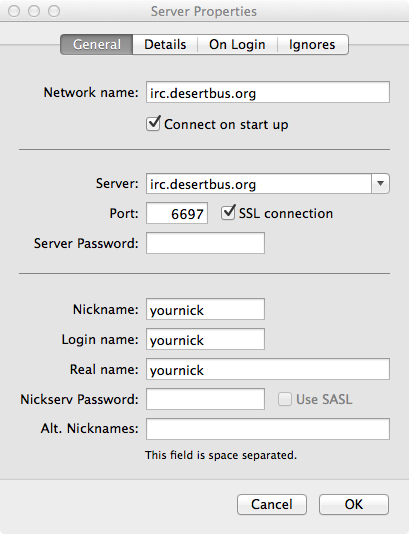
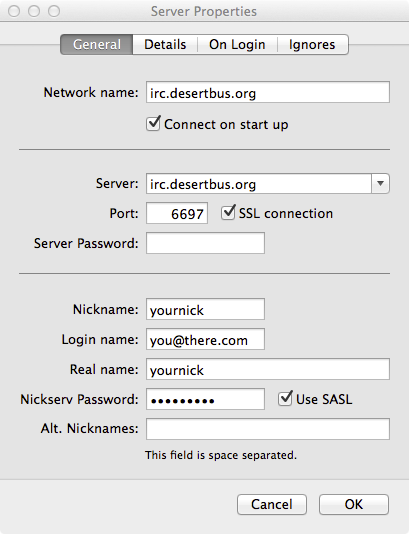
Updated for SASL authentication.

diff --git a/clients/limechat.html b/clients/limechat.html
@@ -16,8 +16,7 @@
     
     <ul class="table-of-contents">
         <li><a href="#initialsetup">Initial Setup</a></li>
-        <li><a href="#serverconfig">More Server Configuration</a>
-        <li><a href="#autoidentify">Automatically Identify To Your Donor Account</a></li>
+        <li><a href="#serverconfig">Additional Configuration</a>
     </ul>
 
     <h2 id="initialsetup">Setting Up LimeChat For The First Time</h2>
@@ -36,26 +35,15 @@
     <p><strong>Connect on start up:</strong> Check this box if you want to automatically connect when LimeChat starts (recommended).</p>
 
 
-    <h2 id="serverconfig">More Server Configuration (Optional)</h2>
+    <h2 id="serverconfig">Additional Configuration (Optional, but Recommended)</h2>
 
     <p>Click the <samp>Server -> Server Properties</samp> menu item to open the server settings. You can change various server settings with this dialog.</p>
 
     <img src="images/limechat/server.png" alt="LimeChat Server Properties">
 
-    <p>If you want to use SSL (recommended), change the <strong>Port</strong> to <samp>6697</samp> and check the <strong>SSL connection</strong> checkbox.</p>
-    
-    <p>If you need to change your nick, update the <strong>Nickname</strong>, <strong>Login name</strong>, and <strong>Real name</strong> fields.</p>
+    <p>If you want to use SSL encryption, change the <strong>Port</strong> to <samp>6697</samp> and check the <strong>SSL connection</strong> checkbox.</p>
 
-
-    <h2 id="autoidentify">Automatically Identify To Your Donor Account (Optional)</h2>
-
-    <p>If you have a <a href="https://desertbus.org/donor" target="_blank">Desert Bus Donor Account</a> (and if you don't, <a href="https://desertbus.org/donor/sign-up" target="_blank">get one</a>) you can easily log in every time you connect to the network.</p>
-    
-    <p>Click the <samp>Server -> Server Properties</samp> menu item to open the server settings and navigate to the <strong>On Login</strong> tab.</p>
-
-    <img src="images/limechat/login.png" alt="LimeChat Login Command">
-    
-    <p>Enter <samp>"/msg NickServ login YourDonorEmailAddress YourDonorPassword"</samp> into the <strong>Perform commands on login</strong> text area, entering your donor e-mail and password as required.
+    <p>If you have a <a href="https://desertbus.org/donor" target="_blank">Desert Bus Donor Account</a> (and if you don't, <a href="https://desertbus.org/donor/sign-up" target="_blank">get one</a>) you can easily log in every time you connect to the network. Simply enter your donor e-mail address into the <strong>Login name</strong> field, your password into the <strong>Nickserv Password</strong> field, and click the <strong>Use SASL</strong> checkbox. If you need to change the nickname to match your registered nick, update the <strong>Nickname</strong> and <strong>Real name</strong> fields.</p>
 </div>
 </body>
 </html>
